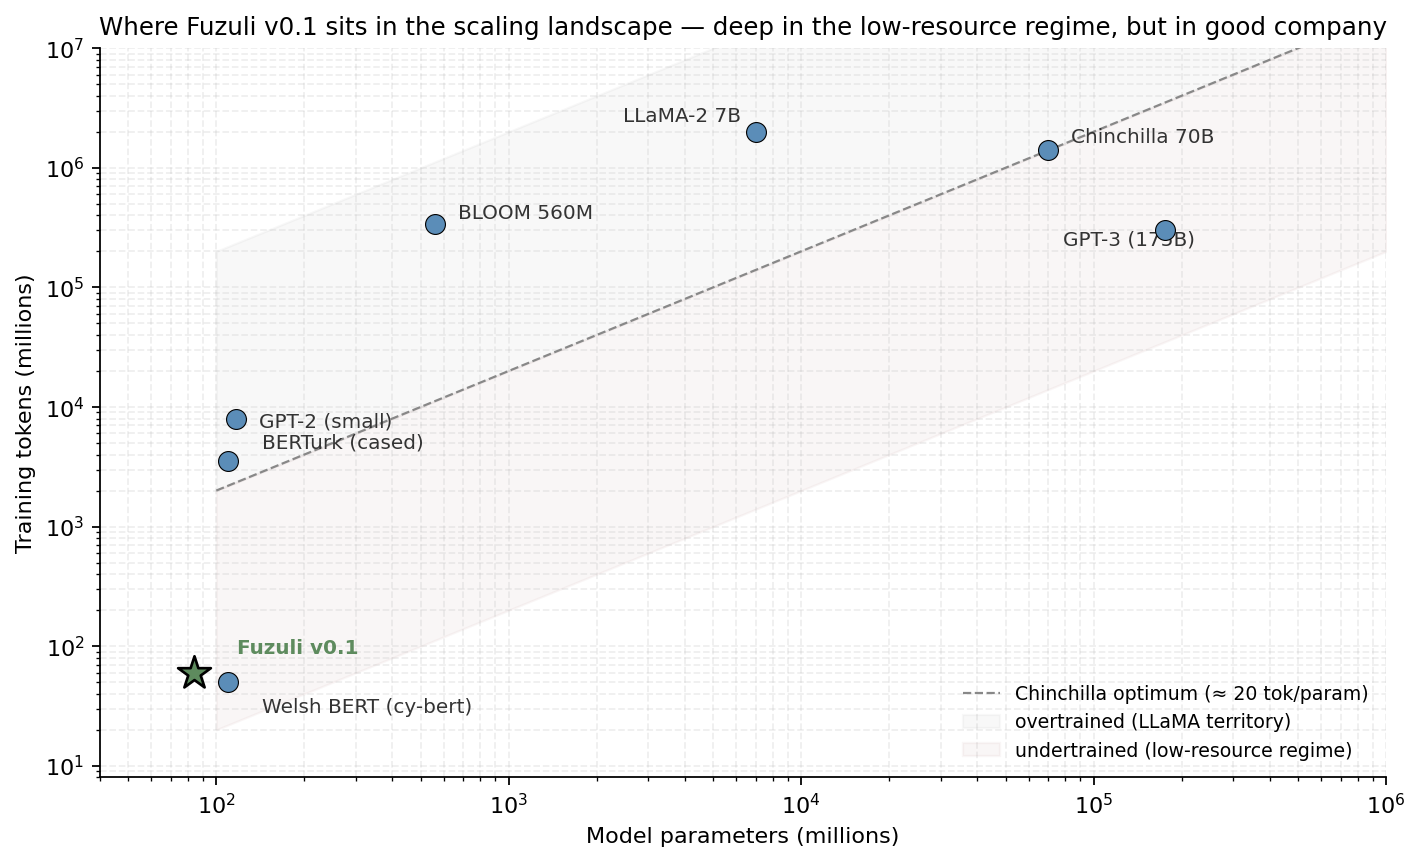
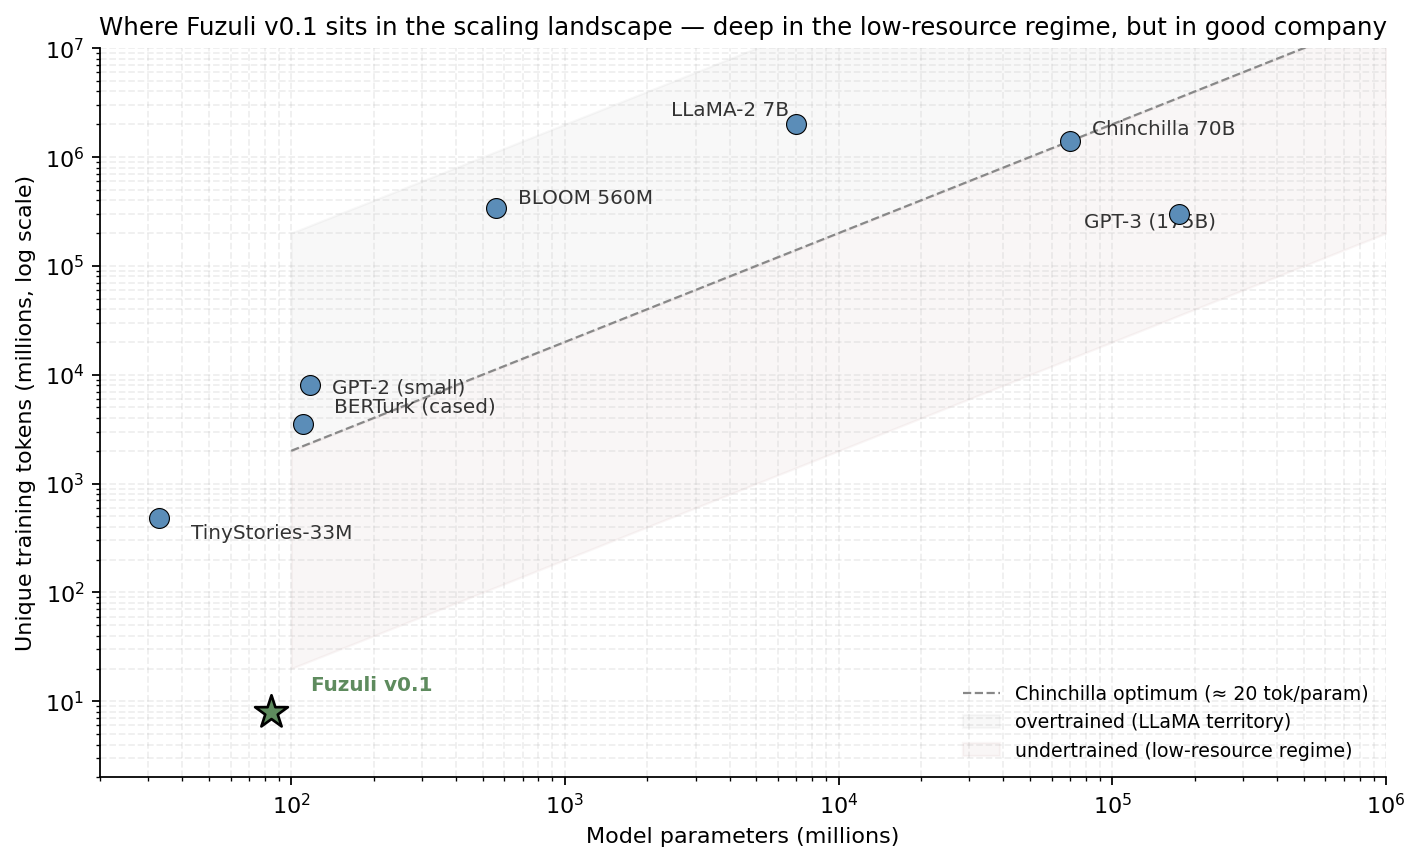
docs: apply 5 critical reviewer fixes — token-budget math, sprint-baseline label, novelty positioning, prior-work strengthening, drop unsourced WelshBERT
Five focused changes from independent technical and editorial reviews:

1. §7.1 Chinchilla math now compares against UNIQUE training tokens
   (8M / 84M = 0.095 tok/param, ≈200× under-Chinchilla), not seen
   tokens. Footnote on multi-epoch behaviour cites Muennighoff et al.

2. §6 explicit lede that the recipe-search experiments use the SPRINT
   proxy model (n_layers=6, n_embd=384, ~30M), not the §3 promotion
   model. Removes apparent contradiction between the two tables.

3. §4.1 reframed from 'what is novel here' to 'design choices in
   context'. Positions the autoresearch loop within FunSearch (Nature
   2024), AlphaEvolve (DeepMind 2025), Voyager (2023), Reflexion
   (NeurIPS 2023). The four design decisions remain, but the framing
   no longer overclaims novelty.

4. §1.1 strengthened: explicit note that §2's cleaning pipeline
   inherits the methodology of Karagöz et al. SIGTURK 2024;
   concrete benchmark numbers from Özateş et al. 2025 (NER 90.29 F1,
   LAS 73.79, POS 94.98 F1) added to ground the planned encoder track.

5. Reference [13] WelshBERT (unsourced) replaced with TinyStories
   (Eldan & Li 2023). Scaling-landscape diagram now plots TinyStories-
   33M as the small-LM-on-curated-corpus comparator. Fuzuli's
   y-coordinate corrected to 8M unique tokens. Diagram axis relabelled
   "unique training tokens" for honesty.

Five new references added: TinyStories [13], FunSearch [20],
AlphaEvolve [21], Voyager [22], Reflexion [23], Muennighoff [24].

diff --git a/tools/generate_article_assets.py b/tools/generate_article_assets.py
@@ -455,16 +455,17 @@ def fig_tokenizer_compression() -> None:
 
 def fig_scaling_landscape() -> None:
     """Scatter of params vs training tokens, with Chinchilla-20 line."""
-    # name, params (M), training tokens (M)
+    # name, params (M), unique training tokens (M)
+    # All counts are unique-token data-scale (the Chinchilla axis), not seen-with-repetition.
     points = [
-        ("GPT-2 (small)",       117,    8_000),     # ≈8B tokens, OWT
+        ("GPT-2 (small)",       117,    8_000),     # ~8B tokens, OWT
         ("GPT-3 (175B)",        175_000, 300_000),  # 300B tokens
         ("LLaMA-2 7B",          7_000,  2_000_000), # 2T tokens
         ("Chinchilla 70B",      70_000, 1_400_000), # 1.4T tokens
         ("BLOOM 560M",          560,    341_000),   # 341B
-        ("BERTurk (cased)",     110,    3_500),     # ~35GB raw → ~3.5B tokens (rough)
-        ("Welsh BERT (cy-bert)", 110,    50),        # ~5M tokens
-        ("Fuzuli v0.1",          84,    60),        # 60M training tokens
+        ("BERTurk (cased)",     110,    3_500),     # ~35GB raw text → ~3.5B tokens (rough)
+        ("TinyStories-33M",      33,    480),       # ~480M synthetic tokens
+        ("Fuzuli v0.1",          84,    8),         # 8M unique BPE tokens
     ]
     names = [p[0] for p in points]
     params = np.array([p[1] for p in points])
@@ -490,8 +491,8 @@ def fig_scaling_landscape() -> None:
         "Chinchilla 70B":      (1.20, 1.15),
         "BLOOM 560M":          (1.20, 1.10),
         "BERTurk (cased)":     (1.30, 1.30),
-        "Welsh BERT (cy-bert)": (1.30, 0.55),
-        "Fuzuli v0.1":          (1.40, 1.45),
+        "TinyStories-33M":     (1.30, 0.65),
+        "Fuzuli v0.1":         (1.40, 1.55),
     }
     for n, p, t in zip(names, params, tokens):
         is_us = n == "Fuzuli v0.1"
@@ -509,12 +510,12 @@ def fig_scaling_landscape() -> None:
     ax.set_xscale("log")
     ax.set_yscale("log")
     ax.set_xlabel("Model parameters (millions)")
-    ax.set_ylabel("Training tokens (millions)")
+    ax.set_ylabel("Unique training tokens (millions, log scale)")
     ax.set_title("Where Fuzuli v0.1 sits in the scaling landscape — "
                  "deep in the low-resource regime, but in good company",
                  fontsize=11)
-    ax.set_xlim(40, 1e6)
-    ax.set_ylim(8, 1e7)
+    ax.set_xlim(20, 1e6)
+    ax.set_ylim(2, 1e7)
     ax.legend(loc="lower right", fontsize=8.5)
     ax.grid(True, which="both", alpha=0.2)
     fig.tight_layout()

diff --git a/docs/article-fuzuli-v0.1/README.md b/docs/article-fuzuli-v0.1/README.md
@@ -16,11 +16,13 @@ This first version is released as a research artifact, not a production tool. It
 
 Ottoman Turkish is not a single language, it is six centuries of overlapping registers — classical *dîvân* poetry, *seyahatnâme* travel prose, *tezkire* biographical compilations, late-Ottoman periodical journalism, *risâle* religious treatises — written across a script transition (Arabic-letter to Latin-letter, formalized in 1928) that broke continuity for most modern computational tools. The corpus that does exist in machine-readable Latinized form is small, scattered across academic websites, and rarely curated for language modeling.
 
-Fine-tuning a multilingual model is the easy path; it is also the path that bakes in modern Turkish bias and imports tokenization choices made for languages that share almost no morphology with Ottoman. The decision here is the harder one: own the tokenizer, own the data pipeline, own every weight from the first matmul forward. The cost is a smaller model trained on less data; the benefit is an artifact that is unambiguously *of* the corpus it was trained on. This stance follows a wider tradition of from-scratch low-resource language models — Welsh BERT [13], BERTurk [12], the OSCAR-trained European national models [16] — which have repeatedly demonstrated that a smaller, language-faithful model trained on a curated in-domain corpus outperforms a larger multilingual model fine-tuned on the same downstream task.
+Fine-tuning a multilingual model is the easy path; it is also the path that bakes in modern Turkish bias and imports tokenization choices made for languages that share almost no morphology with Ottoman. The decision here is the harder one: own the tokenizer, own the data pipeline, own every weight from the first matmul forward. The cost is a smaller model trained on less data; the benefit is an artifact that is unambiguously *of* the corpus it was trained on. This stance follows a wider tradition of from-scratch low-resource language models — BERTurk [12], the OSCAR-trained European national models [16], and curated-corpus small-LM training in the spirit of TinyStories [13] — which have repeatedly demonstrated that a smaller, language-faithful model trained on a curated in-domain corpus outperforms a larger multilingual model fine-tuned on the same downstream task.
 
 ### 1.1 — A note on prior work
 
-Fuzuli continues a line of work I have contributed to on the computational treatment of Ottoman Turkish. In *Towards a Clean Text Corpus for Ottoman Turkish* (Karagöz, Doğan & Özateş, SIGTURK 2024) [18], my co-authors and I constructed an initial cleaned Ottoman corpus and used it for **continual pre-training** of BERTurk [12], demonstrating that even modest amounts of in-domain text can adapt a Modern Turkish encoder to a historical variant for downstream tasks such as named entity recognition. The broader infrastructure effort I co-author with the Boğaziçi NLP group, *Building Foundations for Natural Language Processing of Historical Turkish: Resources and Models* (Özateş et al., 2025) [19], introduced the **HisTR** dataset, the **OTA-BOUN** Universal Dependencies treebank, and the **OTC** corpus, alongside fine-tuned task models published under the `bucolin` organization on HuggingFace.
+Fuzuli continues a line of work I have contributed to on the computational treatment of Ottoman Turkish. In *Towards a Clean Text Corpus for Ottoman Turkish* (Karagöz, Doğan & Özateş, SIGTURK 2024) [18], my co-authors and I constructed an initial cleaned Ottoman corpus and used it for **continual pre-training** of BERTurk [12], demonstrating that even modest amounts of in-domain text can adapt a Modern Turkish encoder to a historical variant for downstream tasks such as named entity recognition. The cleaning methodology developed there — regex-based normalization, handling of intertwined bidirectional Arabic/Latin script, private-use-area character mapping, dehyphenation — is the direct predecessor of §2's four-stage pipeline.
+
+The broader infrastructure effort I co-author with the Boğaziçi NLP group, *Building Foundations for Natural Language Processing of Historical Turkish: Resources and Models* (Özateş et al., 2025) [19], introduced the **HisTR** dataset, the **OTA-BOUN** Universal Dependencies treebank, and the **OTC** corpus, alongside fine-tuned task models published under the `bucolin` organization on HuggingFace. That work establishes concrete downstream baselines for historical Turkish — NER F1 of **90.29** on HisTR, dependency-parsing LAS of **73.79** on OTA-BOUN, POS F1 of **94.98** — against which a from-scratch decoder-only successor can be measured.
 
 Fuzuli takes the next step in that programme. Rather than continually pre-training or fine-tuning Modern Turkish base models, it trains a decoder-only language model end-to-end on the historical variant alone — with its own tokenizer, its own frozen evaluation harness, and no inherited weights. The progression is intentional: encoder fine-tuning answers *can the existing infrastructure be adapted?*, and the answer is *yes, partially*. From-scratch decoder pretraining answers a different question — *what does the language look like to a model that has never been told anything about Modern Turkish?* — and the resulting artifact is, by construction, free of any Modern-Turkish prior.
 
@@ -126,9 +128,9 @@ The recipe was not hand-tuned. Instead, an LLM-based research agent was given wr
 
 ![Autoresearch system architecture](assets/system_architecture.png)
 
-### 4.1 — What is novel here
+### 4.1 — Design choices in context
 
-Most of Fuzuli's individual components are off-the-shelf. What is genuinely novel is the **autoresearch loop**, in particular four design decisions that distinguish it from naive "let an LLM tune hyperparameters" approaches:
+Most of Fuzuli's individual components are off-the-shelf. The autoresearch loop itself is part of a growing literature on LLM-driven scientific search: FunSearch [20] demonstrated that an LLM in a closed evaluation loop could discover novel mathematical programs by mutating a designated function while a fixed evaluator gates accept/reject; AlphaEvolve [21] generalized this to algorithmic discovery on a wider problem class; Voyager [22] and Reflexion [23] established LLM-agent patterns for persistent memory and self-correction across episodes. What this project contributes is not the autoresearch primitive itself but a specific combination of design decisions tailored to the sub-Chinchilla single-GPU language-modeling setting:
 
 - **Hard tier-based mutability.** The evaluation harness (`eval/`), the tokenizer artifact, the orchestrator (`factory/`), the CLI, and a handful of policy-defining files are *immutable to the agent*. Any patch that modifies them is rejected at pre-flight by glob-based protected-path checking. The agent has write access only to `train/configs/`, `train/train.py`, `train/arch.py`, and `data/cleaning_rules.yaml`. This guarantees that a recipe accepted by one experiment can be meaningfully compared against another, because the *measurement instrument* never changes.
 
@@ -171,7 +173,9 @@ The dominant rejection class is heldout-perplexity regression, followed by lexic
 
 ## 6 — What the agent tried
 
-Over those 356 experiments, the agent traversed essentially the entire standard recipe-search playbook:
+All 356 experiments below were run on the **sprint configuration** — a smaller proxy model (n_layers=6, n_embd=384, n_kv_heads=2, ≈30 M parameters, 25 M training tokens, ≈76 s wall clock) used to discover hyperparameter recipes that are then applied to the larger ≈84 M-parameter promotion model in §3. This separation is by design: sprints are short enough for hundreds of cycles per day; promotions are 1–2 hours each. The autoresearch loop iterates only over sprints. The "baseline" values in the table below therefore reference the sprint config, not the §3 architecture table.
+
+Over the session, the agent traversed essentially the entire standard recipe-search playbook:
 
 | Dimension | Values tried |
 |---|---|
@@ -207,7 +211,7 @@ This is the textbook signature of a **data-starved training regime**: when the d
 
 ![Where Fuzuli v0.1 sits relative to Chinchilla](assets/scaling_landscape.png)
 
-Chinchilla [7] established that for compute-optimal training, the number of training tokens should scale roughly as 20× the number of parameters. Fuzuli sees 60M tokens for 84M parameters — a ratio of **0.71 tok/param**, against the Chinchilla optimum of 20. That places it firmly in the *undertrained* / low-resource regime, alongside Welsh BERT [13] and similar small from-scratch language-faithful models. This is not an accident: when the corpus is the binding constraint, the choice is between a smaller model that fits the data (Fuzuli's path) or a larger model that overfits hard (the path explicitly rejected by the spec amendments during this project's planning phase).
+Chinchilla [7] established that for compute-optimal training, the number of *unique* training tokens should scale roughly as 20× the number of parameters. Fuzuli has **8 M unique training tokens for 84 M parameters — a unique-data-to-parameter ratio of 0.095**, against the Chinchilla optimum of 20. That is roughly **200× under** the compute-optimal frontier. (Counting training-token *passes* across the ~7 epochs raises the seen-token ratio to ~0.71, but Chinchilla scaling laws are properly defined on unique data, not on passes; see Muennighoff et al. [24] on data-constrained training, where multiple epochs partly but not fully recover the marginal value of additional unique data.) This places Fuzuli firmly in the *undertrained* / low-resource regime, alongside small from-scratch language-faithful models trained on tightly curated corpora [13]. When the corpus is the binding constraint, the choice is between a smaller model that fits the data (Fuzuli's path) or a larger model that overfits hard (the path rejected by the spec amendments during planning).
 
 The opposite end of the landscape is illustrative. LLaMA-2-7B was trained on 2 trillion tokens for 7 billion parameters [9] — a ratio of ~286 tok/param, fully 14× *over* the Chinchilla optimum. The modern best practice for production LMs is *intentional overtraining*, because inference-time cost dominates training-time cost at deployment scale. Fuzuli takes the opposite trade because there is no deployment-scale inference and there is no 2T-token Ottoman corpus.
 
@@ -284,7 +288,7 @@ This work is released under my own name without external attribution claims. Com
 
 [12] Schweter, S. (2020). **BERTurk — BERT Models for Turkish.** *Zenodo. doi:10.5281/zenodo.3770924.*
 
-[13] Welsh-NLP community (2022-). **WelshBERT (cy-bert) and BERTweet-Cym** — small from-scratch Welsh language models. *Cardiff NLP / Bangor University releases on HuggingFace.*
+[13] Eldan, R., Li, Y. (2023). **TinyStories: How Small Can Language Models Be and Still Speak Coherent English?** *arXiv:2305.07759.*
 
 [14] Conneau, A. *et al.* (2020). **Unsupervised Cross-lingual Representation Learning at Scale** (XLM-R). *ACL 2020.*
 
@@ -297,6 +301,16 @@ This work is released under my own name without external attribution claims. Com
 [18] Karagöz, F., Doğan, B., Özateş, Ş. B. (2024). **Towards a Clean Text Corpus for Ottoman Turkish.** *Proceedings of the First Workshop on Natural Language Processing for Turkic Languages (SIGTURK 2024), pp. 62–70, Association for Computational Linguistics.*
 
 [19] Özateş, Ş. B., Tıraş, T. E., Adak, E. E., Doğan, B., Karagöz, F. B., Genç, E. E., Taşdemir, E. F. B. (2025). **Building Foundations for Natural Language Processing of Historical Turkish: Resources and Models.** *arXiv:2501.04828.*
+
+[20] Romera-Paredes, B. *et al.* (2024). **Mathematical discoveries from program search with large language models** (FunSearch). *Nature 625, 468–475.*
+
+[21] Novikov, A. *et al.* (2025). **AlphaEvolve: A coding agent for scientific and algorithmic discovery.** *DeepMind / arXiv.*
+
+[22] Wang, G. *et al.* (2023). **Voyager: An Open-Ended Embodied Agent with Large Language Models.** *arXiv:2305.16291.*
+
+[23] Shinn, N., Cassano, F., Berman, E., Gopinath, A., Narasimhan, K., Yao, S. (2023). **Reflexion: Language Agents with Verbal Reinforcement Learning.** *NeurIPS 2023.*
+
+[24] Muennighoff, N. *et al.* (2023). **Scaling Data-Constrained Language Models.** *NeurIPS 2023.*
 
 ---
 
